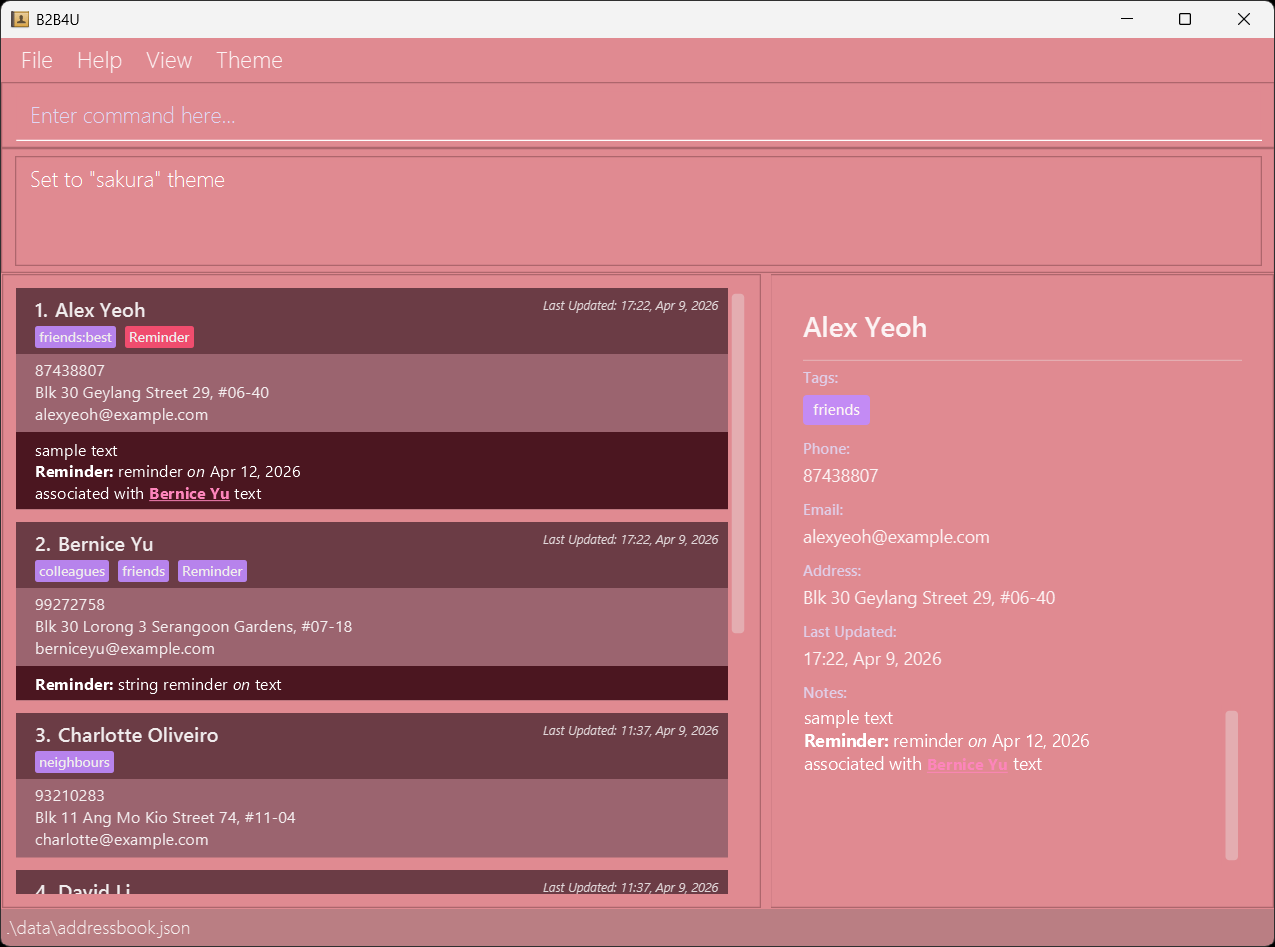
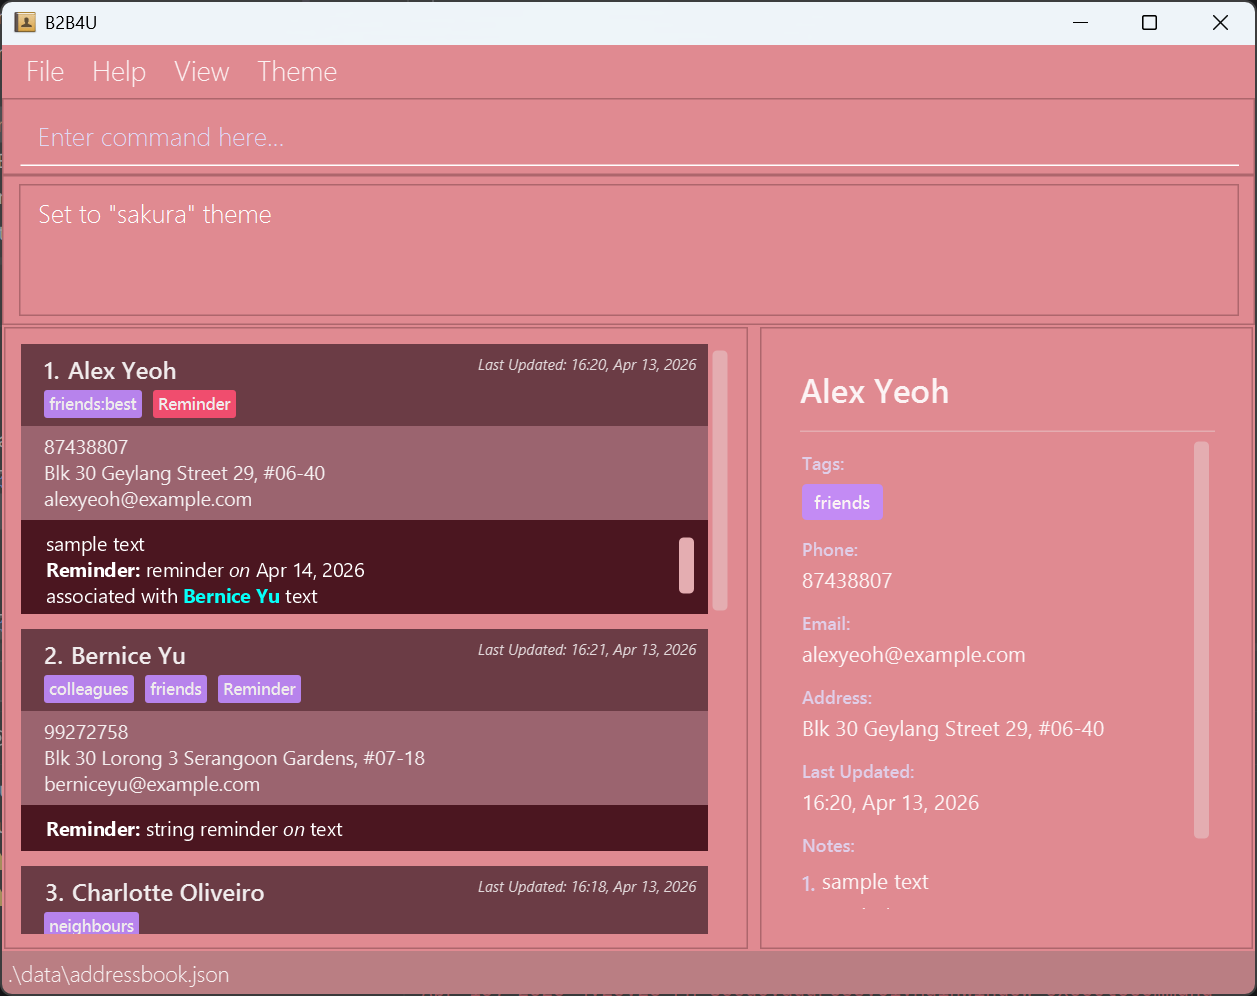
docs: Combine themes into table; update sakura img

diff --git a/docs/user-guide/set-theme.md b/docs/user-guide/set-theme.md
@@ -4,39 +4,14 @@ Changes the theme in user.
 
 Format: `theme THEME_NAME`
 
-## Available themes
-### Dark Mode: `dark`
-![Dark Mode]({{ baseUrl }}/images/theme-dark.png)
+## Supported themes
 
-Command: `theme dark` <br>
-Perfect for late-night work.
-### Light Mode: `light`
-![Light Mode]({{ baseUrl }}/images/theme-light.png)
-
-Command: `theme light` <br>
-For when you're in well-lit conditions.
-### Reading Mode: `book`
-![Reading Mode]({{ baseUrl }}/images/theme-book.png)
-
-Command: `theme book` <br>
-To lessen the strain on the eyes.
-### Sakura Theme: `sakura`
-![Sakura Theme]({{ baseUrl }}/images/theme-sakura.png)
-
-Command: `theme sakura` <br>
-For fans of the kawaii and pink aesthetic.
-### Grass Theme: `grass`
-![Grass Theme]({{ baseUrl }}/images/theme-grass.png)
-
-Command: `theme grass` <br>
-An alternate colour scheme that reduces eye strain.
-### Techcore: `tech`
-![Techcore Theme]({{ baseUrl }}/images/theme-tech.png)
-
-Command: `theme tech` <br>
-For those who want to appear like they're at the forefront of technology
-### Jirai Kei: `jirai`
-![Jirai Kei Theme]({{ baseUrl }}/images/theme-jirai.png)
-
-Command: `theme jirai` <br>
-For fans of the Jirai Kei aesthetic.
+| Theme        | Description                                                               | Command        | Image                                                    |
+|--------------|---------------------------------------------------------------------------|----------------|----------------------------------------------------------|
+| Dark Mode    | Perfect for late-night work.                                              | `theme dark`   | ![Dark Mode]({{ baseUrl }}/images/theme-dark.png)        |
+| Light Mode   | For when you're in well-lit conditions.                                   | `theme light`  | ![Light Mode]({{ baseUrl }}/images/theme-light.png)      |
+| Reading Mode | To lessen the strain on the eyes.                                         | `theme book`   | ![Reading Mode]({{ baseUrl }}/images/theme-book.png)     |
+| Sakura Theme | For fans of the kawaii and pink aesthetic.                                | `theme sakura` | ![Sakura Theme]({{ baseUrl }}/images/theme-sakura.png)   |
+| Grass Theme  | An alternate colour scheme that reduces eye strain.                       | `theme grass`  | ![Grass Theme]({{ baseUrl }}/images/theme-grass.png)     |
+| Techcore     | For those who want to appear like they're at the forefront of technology. | `theme tech`   | ![Techcore Theme]({{ baseUrl }}/images/theme-tech.png)   |
+| Jirai Kei    | For fans of the Jirai Kei aesthetic.                                      | `theme jirai`  | ![Jirai Kei Theme]({{ baseUrl }}/images/theme-jirai.png) |
